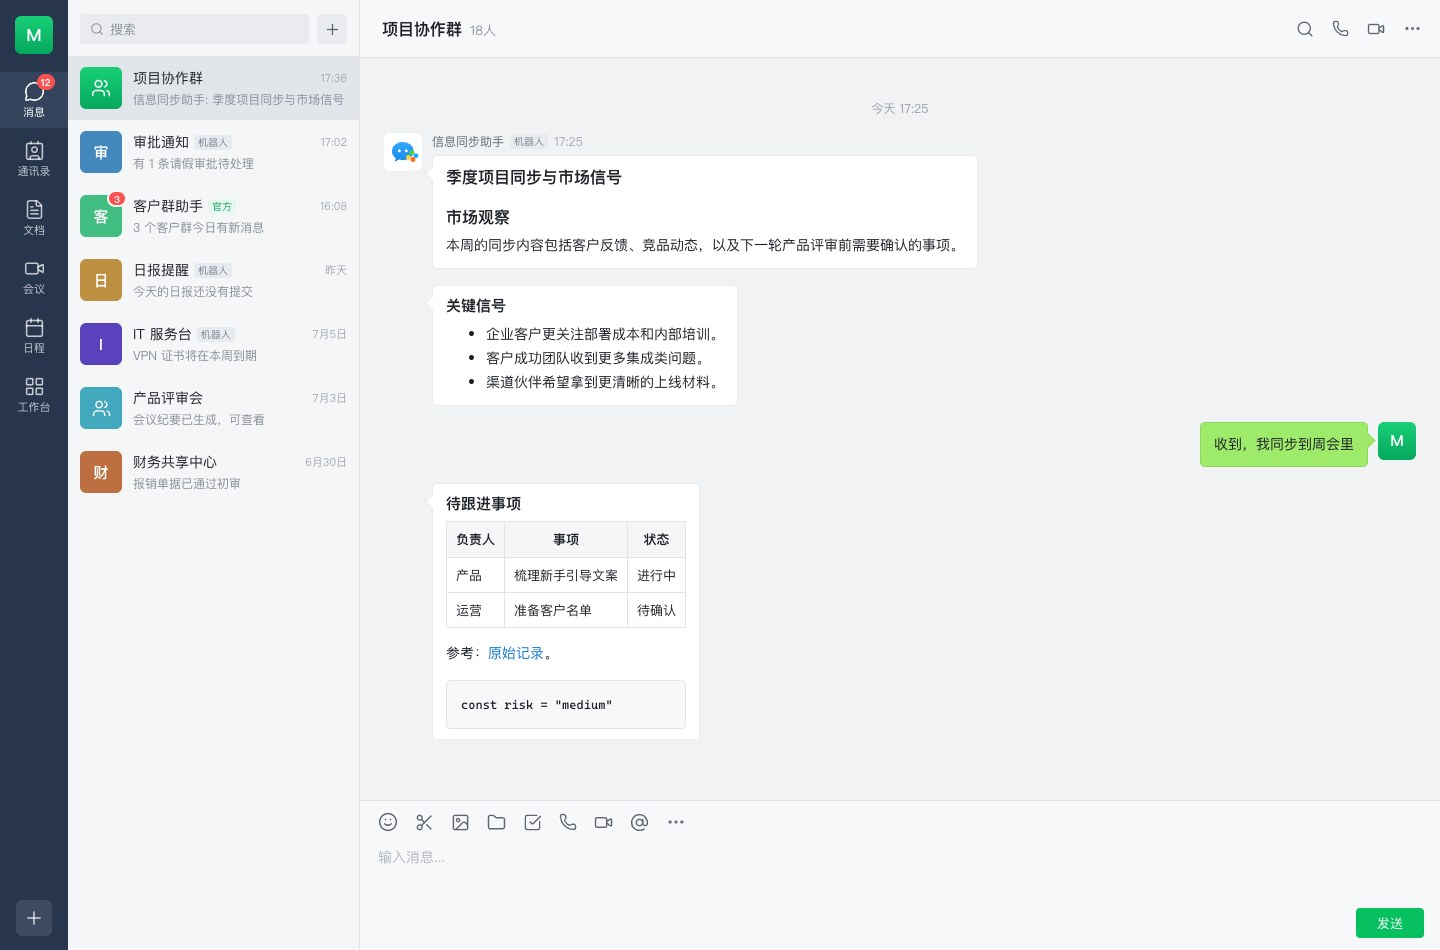
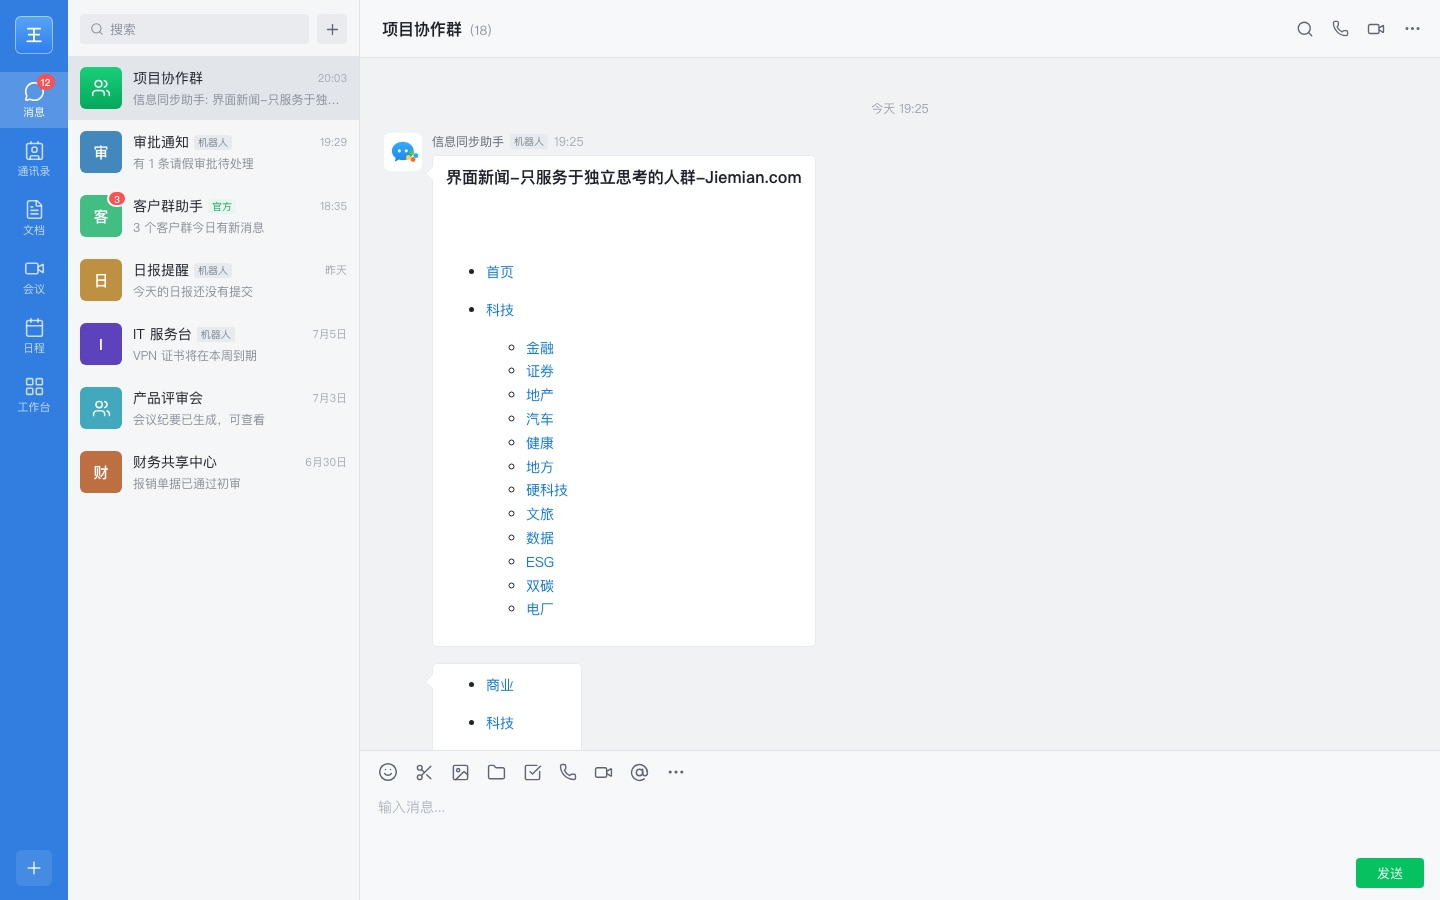
fix(wecom): true WeCom palette — blue rail, blue own bubble, not WeChat green
The merged skin wore WeChat's colors in the two places natives look first:
the app rail was dark navy (reads as old DingTalk; WeCom's signature rail is
brand blue) and the user's own bubble + avatar were WeChat green. Now: blue
rail with translucent-white active pills, light-blue own bubble, blue avatar
gradient with a white ring on the rail, and the group title uses WeCom's
"(18)" member format. Gallery screenshots retaken with the corrected palette;
CONTRIBUTING dir listing includes wecom/.

diff --git a/src/skins/wecom/style.css b/src/skins/wecom/style.css
@@ -10,8 +10,8 @@
 .wecom {
   --wc-green: #07c160;
   --wc-green-dark: #06ad56;
-  --wc-rail: #27364d;
-  --wc-rail-soft: #34445d;
+  --wc-rail: #327ee0;
+  --wc-rail-soft: rgba(255, 255, 255, 0.18);
   --wc-text: #1f2329;
   --wc-muted: #858b96;
   --wc-line: #e6e8eb;
@@ -19,7 +19,7 @@
   --wc-chat-bg: #f1f2f4;
   --wc-hover: #eceff2;
   --wc-active: #e2e5ea;
-  --wc-own: #9eea6a;
+  --wc-own: #cde3fb;
   --wc-font: "PingFang SC", -apple-system, BlinkMacSystemFont, "Hiragino Sans GB",
     "Microsoft YaHei", "Segoe UI", Roboto, Helvetica, Arial, sans-serif;
   display: flex;
@@ -45,11 +45,12 @@
   display: inline-flex;
   align-items: center;
   justify-content: center;
+  box-shadow: inset 0 0 0 1px rgba(255, 255, 255, 0.45);
   width: 38px;
   height: 38px;
   margin-bottom: 18px;
   border-radius: 6px;
-  background: linear-gradient(180deg, #19cf77, #05a85d);
+  background: linear-gradient(180deg, #58a4f4, #2e7ff0);
   color: #fff;
   font-size: 17px;
   font-weight: 600;
@@ -494,7 +495,7 @@
 
 .wecom .wc-bubble-own {
   background: var(--wc-own);
-  border: 1px solid #8ddb5b;
+  border: 1px solid #aecdf0;
 }
 
 .wecom .wc-bubble-own::after {

diff --git a/src/skins/wecom/index.tsx b/src/skins/wecom/index.tsx
@@ -64,7 +64,7 @@ const STR = {
   zh: {
     search: '搜索',
     group: '项目协作群',
-    members: '18人',
+    members: '(18)',
     today: '今天',
     assistant: '信息同步助手',
     bot: '机器人',
@@ -84,7 +84,7 @@ const STR = {
   en: {
     search: 'Search',
     group: 'Project Sync',
-    members: '18 members',
+    members: '(18)',
     today: 'Today',
     assistant: 'Digest Assistant',
     bot: 'Bot',

diff --git a/CONTRIBUTING.md b/CONTRIBUTING.md
@@ -17,7 +17,7 @@ src/
     index.tsx       # registry — auto-discovers skins via import.meta.glob
     _template/      # copy this to start a new skin (not registered)
     word/ vscode/ claude-code/ docs/ notion/ lark-docs/
-    slack/ lark/ dingtalk/ wps/ excel/ outlook/ teams/ gmail/
+    slack/ lark/ dingtalk/ wecom/ wps/ excel/ outlook/ teams/ gmail/
   App.tsx           # the app shell: routing, state, palette, boss-key, home
 ```
 
